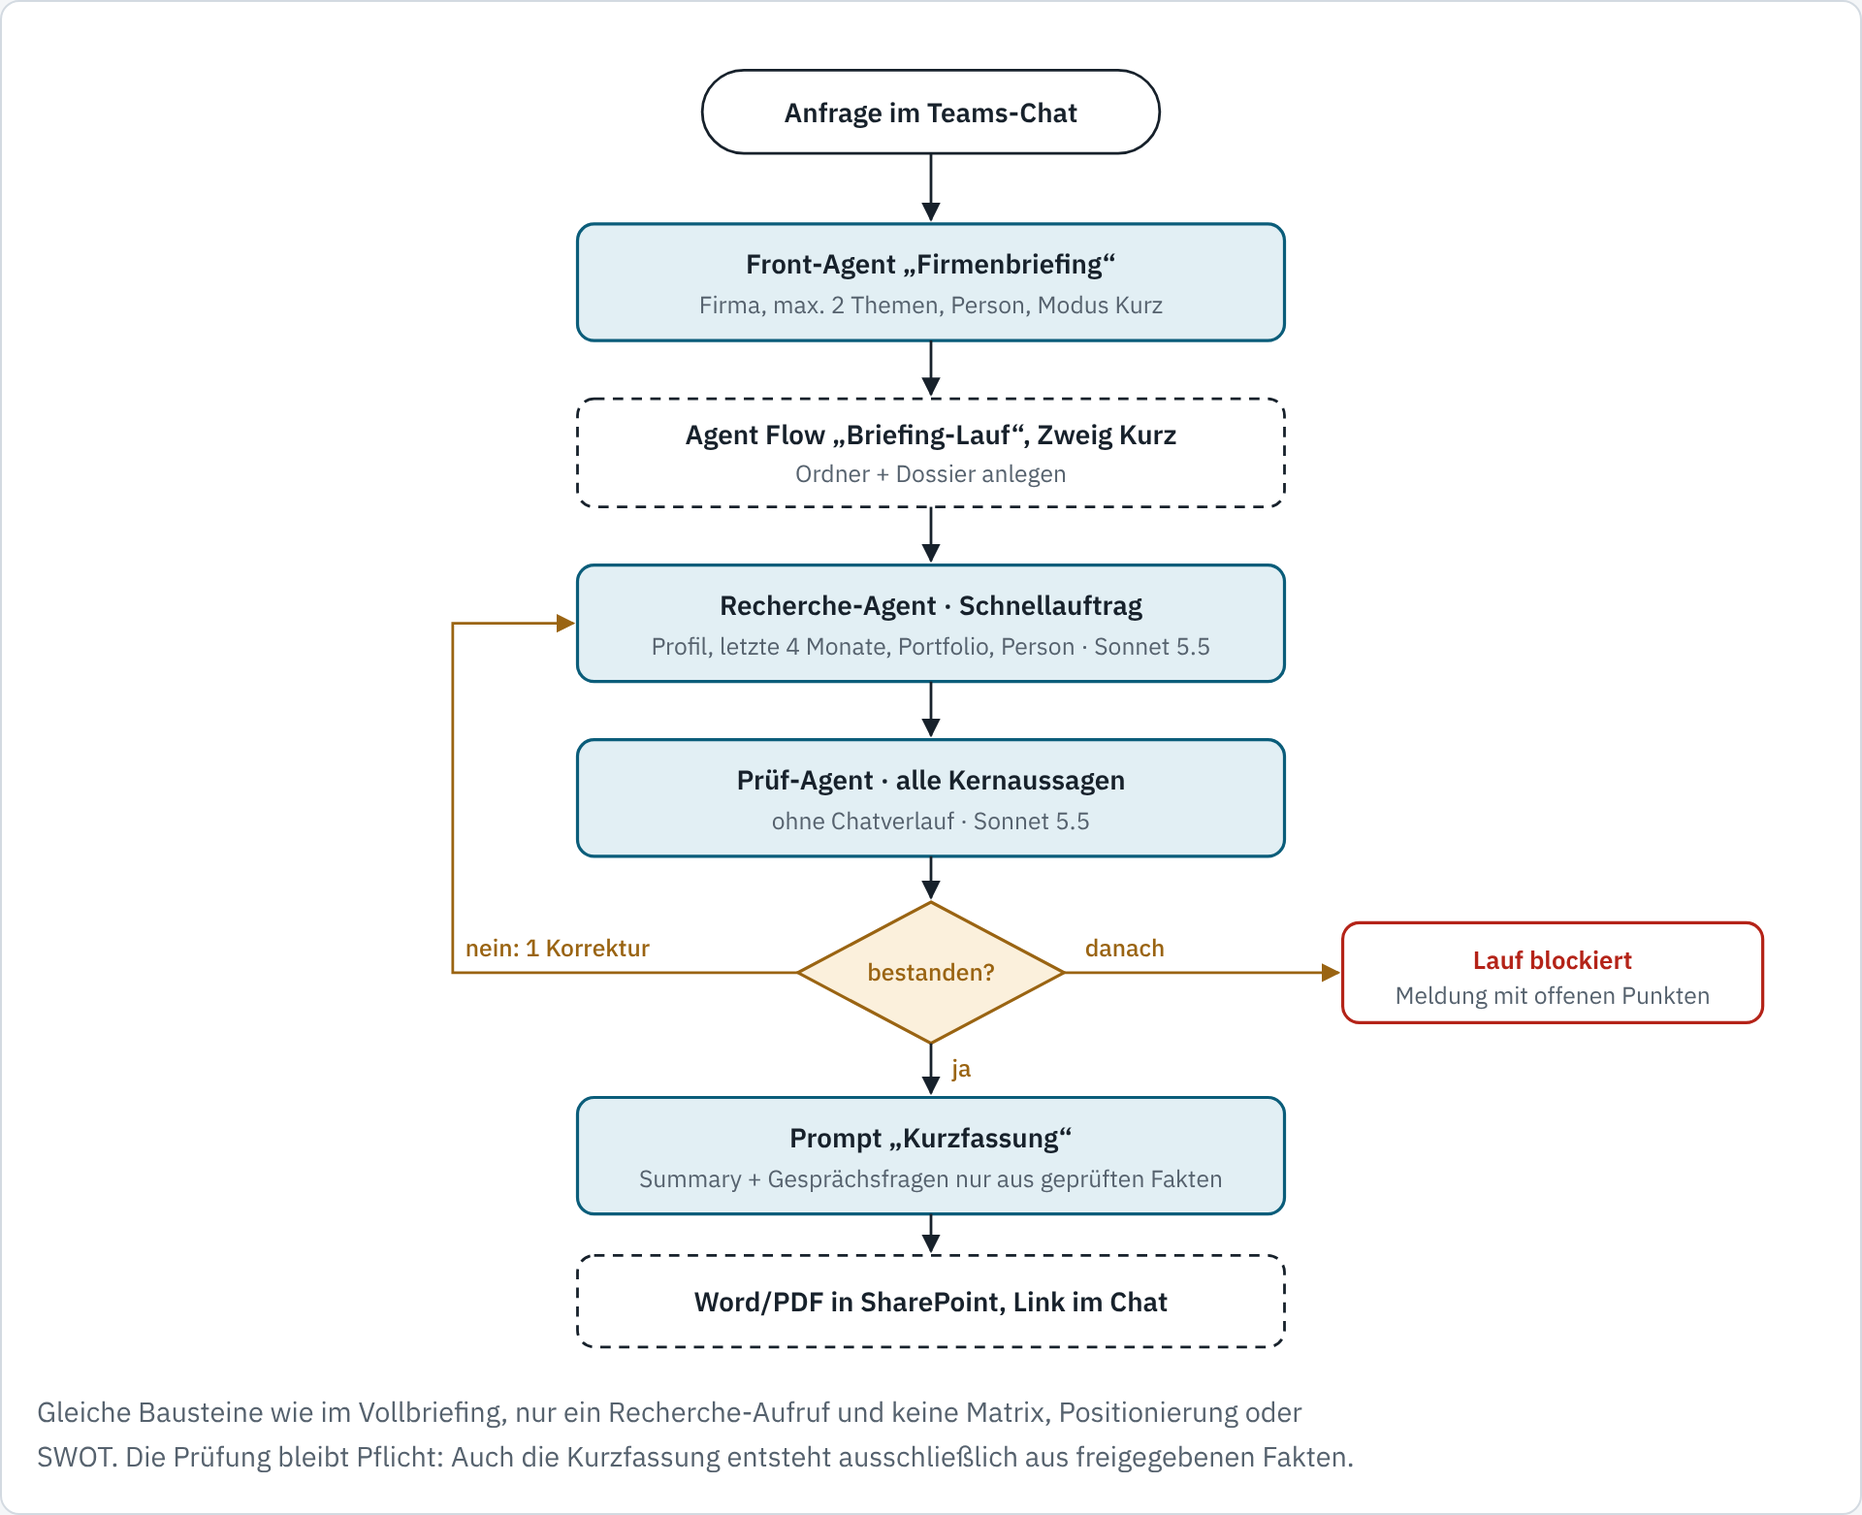
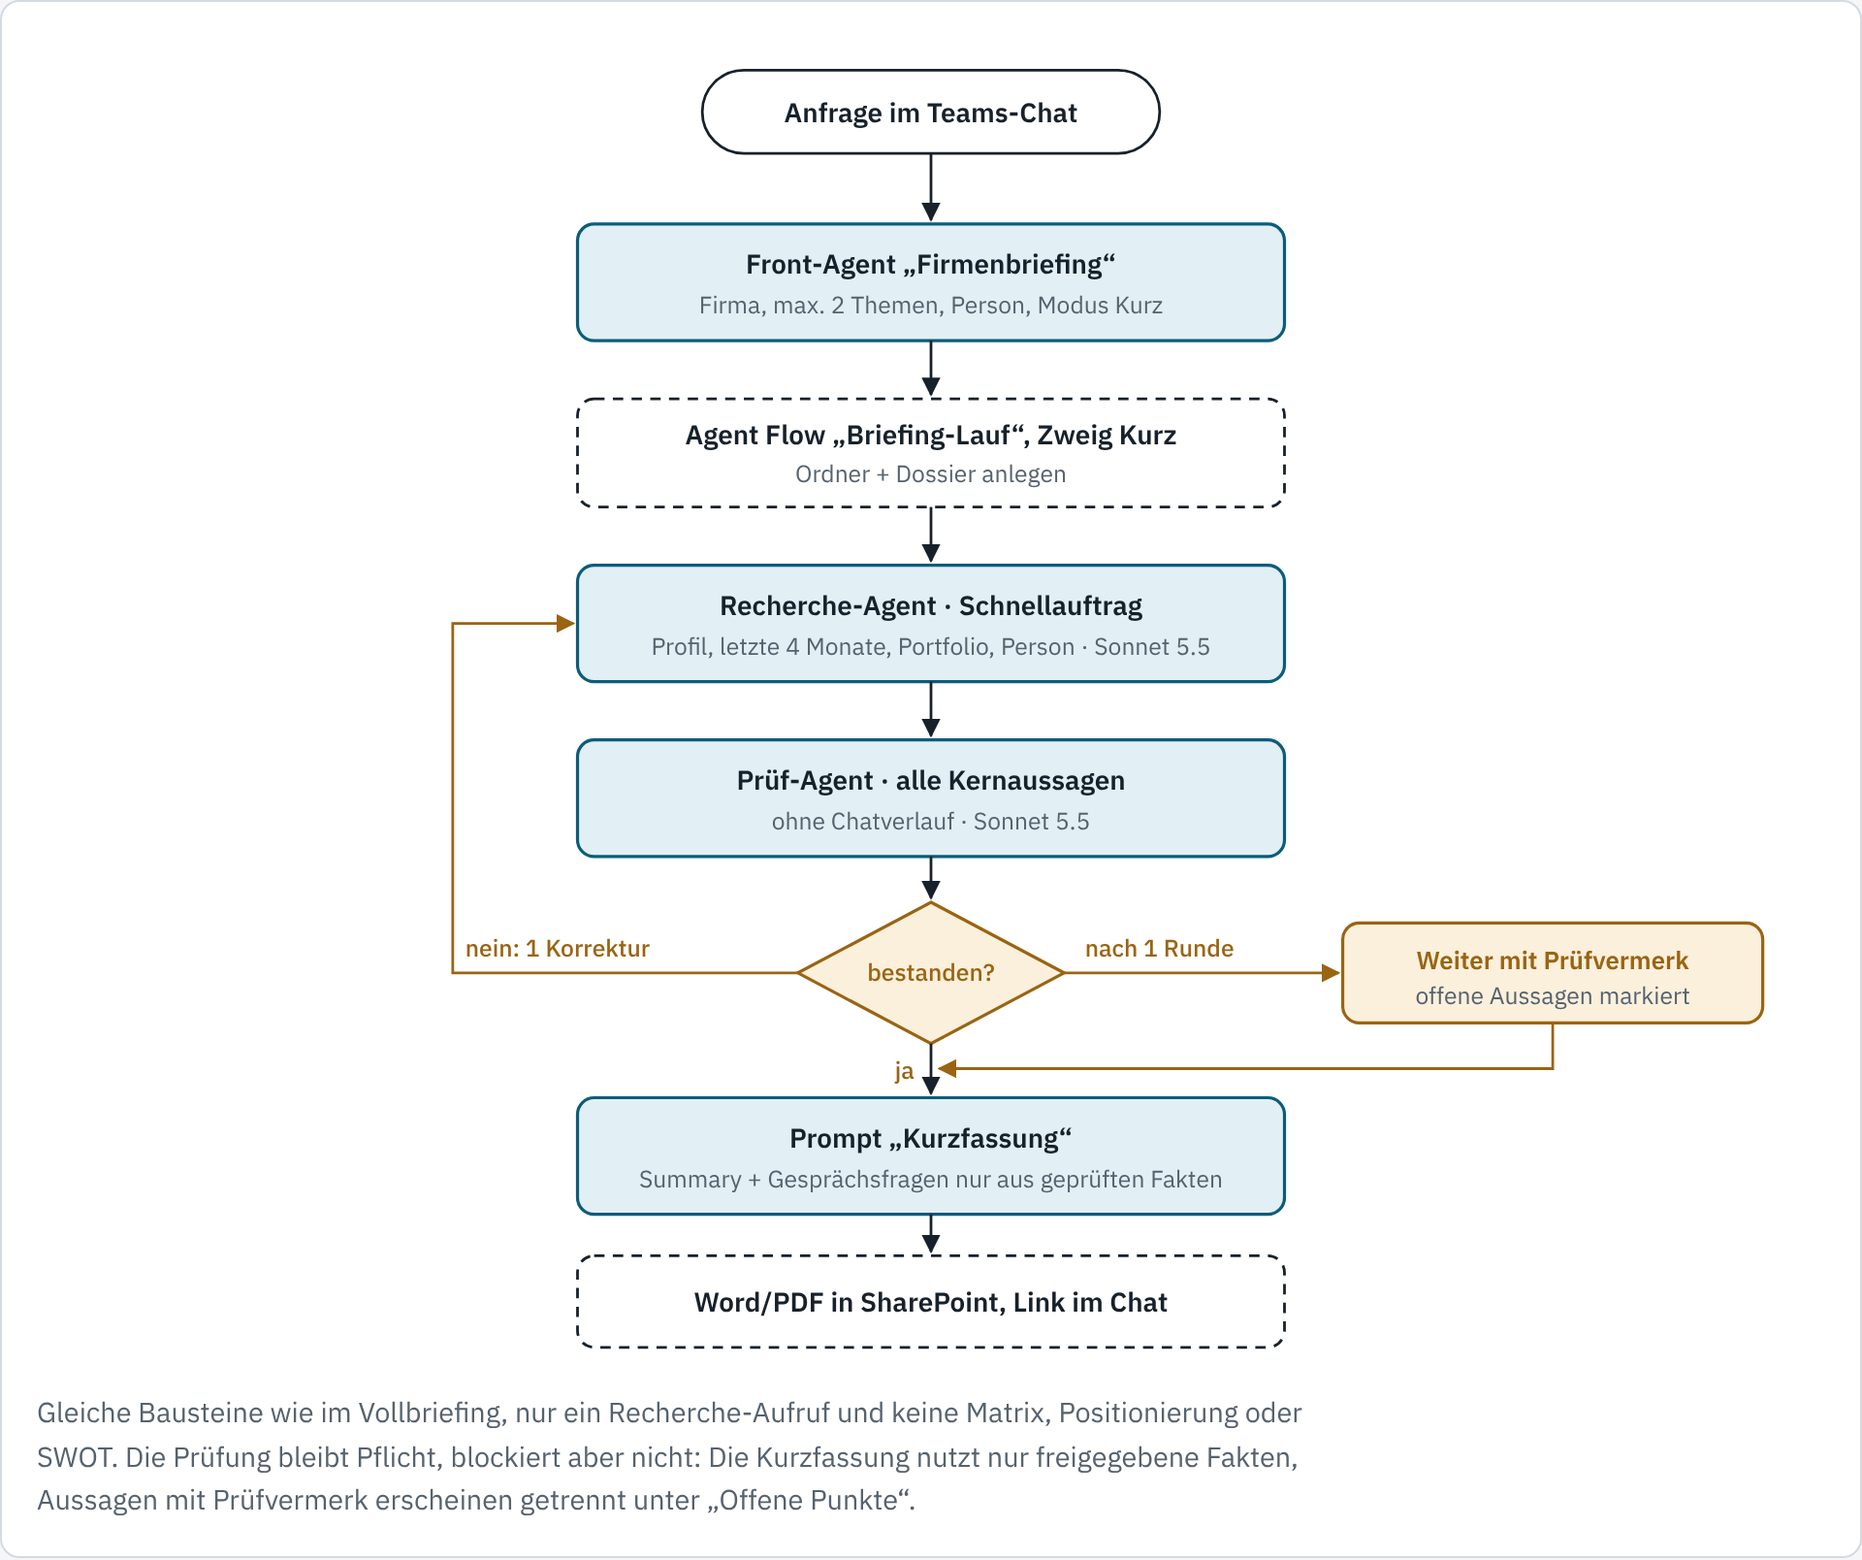
Make briefing runs non-blocking in the Copilot Studio target picture
After the correction rounds the flow always continues: unconfirmed
statements get a review note, are excluded from summary and assessment
and are listed under open points. A failed module shows as a data gap.

Claude-Session: https://claude.ai/code/session_013EJZuiswwf8FQgHL5qthTW

Changed region(s): [[0.0, 0.0307, 1.0, 1.0]]

diff --git a/docs/copilot-studio/zielbild.html b/docs/copilot-studio/zielbild.html
@@ -73,7 +73,7 @@ figcaption { font-size: .9rem; color: var(--muted); max-width: 80ch; }
 .sw-agent { background: var(--agent-fill); border: 1.5px solid var(--accent); }
 .sw-flow { border: 1.5px dashed var(--ink); }
 .sw-gate { background: var(--gate-fill); border: 1.5px solid var(--gate); transform: rotate(45deg) scale(.7); width: 16px; height: 16px; }
-.sw-stop { border: 1.5px solid var(--stop); }
+.sw-vm { background: var(--gate-fill); border: 1.5px solid var(--gate); }
 /* SVG-Klassen */
 .ag { fill: var(--agent-fill); stroke: var(--accent); stroke-width: 1.5; }
 .fl { fill: var(--surface); stroke: currentColor; stroke-width: 1.3; stroke-dasharray: 5 4; }
@@ -87,6 +87,8 @@ figcaption { font-size: .9rem; color: var(--muted); max-width: 80ch; }
 .tp { font: 600 12px var(--display); fill: var(--accent); letter-spacing: .05em; }
 .tg { font: 500 11.5px var(--body); fill: var(--gate); }
 .ts { font: 600 12px var(--body); fill: var(--stop); }
+.vm { fill: var(--gate-fill); stroke: var(--gate); stroke-width: 1.5; }
+.tv { font: 600 12px var(--body); fill: var(--gate); }
 .ah { fill: currentColor; }
 .ahg { fill: var(--gate); }
 .cols { display: grid; grid-template-columns: repeat(auto-fit, minmax(280px, 1fr)); gap: 14px; }
@@ -137,7 +139,8 @@ a { color: var(--accent); }
       <tr><td>Rollen</td><td>10 Rollen plus bis zu 3 Dokumentprüfer und Leitprüfer</td><td><b>5 Agenten</b>, die mit wechselndem Modulauftrag mehrfach aufgerufen werden</td></tr>
       <tr><td>Dateien je Lauf</td><td>rund 15 JSON-Dateien plus Prüfpläne und Checkpoints</td><td><b>1 Dossier</b> mit einem Abschnitt je Agent, dazu das fertige Briefing</td></tr>
       <tr><td>Wer schreibt</td><td>Jede Rolle schreibt ihre eigene Datei</td><td>Agenten liefern Ergebnisse zurück, <b>nur der Flow schreibt</b></td></tr>
-      <tr><td>Freigabe</td><td>Regeln im Prompt plus Python-Prüfskripte</td><td>Prüf-Agent urteilt, Flow-Bedingung setzt das Urteil hart durch</td></tr>
+      <tr><td>Freigabe</td><td>Regeln im Prompt plus Python-Prüfskripte</td><td>Prüf-Agent urteilt je Aussage, Flow-Bedingung setzt das Urteil durch</td></tr>
+      <tr><td>Nicht bestätigte Aussagen</td><td>Lauf wird nach 2 erfolglosen Korrekturrunden blockiert</td><td><b>Lauf läuft weiter</b>: Aussage bekommt einen Prüfvermerk, wird nicht für Summary und Bewertung genutzt und erscheint unter „Offene Punkte“</td></tr>
       <tr><td>Regelwerk</td><td>rund 315 KB in 36 Referenzdateien</td><td>je Modul eine kurze Auftragskarte, aus dem Repository erzeugt</td></tr>
       <tr><td>Ausgabe</td><td>HTML über lokale Renderer</td><td>Gleiche Renderer als Tool, dazu PDF, Ablage in SharePoint</td></tr>
     </tbody>
@@ -151,11 +154,11 @@ a { color: var(--accent); }
     <span><i class="sw sw-agent"></i>KI-Schritt (Agent oder Prompt)</span>
     <span><i class="sw sw-flow"></i>Flow- oder Code-Schritt</span>
     <span><i class="sw sw-gate"></i>Prüftor</span>
-    <span><i class="sw sw-stop"></i>Abbruch</span>
+    <span><i class="sw sw-vm"></i>Weiter mit Prüfvermerk</span>
   </div>
   <figure>
   <div class="scroll">
-  <svg viewBox="0 0 860 1060" role="img" aria-label="Vollbriefing: Front-Agent legt den Auftrag an, ein Agent Flow ruft vier Recherche-Module und je Fokusthema einen Aufruf auf, der Prüf-Agent gibt die Fakten frei, danach Positionierung, SWOT und Schlussprüfung, zuletzt rendert ein Tool HTML und PDF in SharePoint.">
+  <svg viewBox="0 0 860 1060" role="img" aria-label="Vollbriefing: Front-Agent legt den Auftrag an, ein Agent Flow ruft vier Recherche-Module und je Fokusthema einen Aufruf auf, der Prüf-Agent gibt die Fakten frei, nach höchstens zwei Korrekturrunden geht es mit Prüfvermerk weiter, danach Positionierung, SWOT und Schlussprüfung, zuletzt rendert ein Tool HTML und PDF in SharePoint. Der Lauf wird nie blockiert.">
     <defs>
       <marker id="a1" viewBox="0 0 10 10" refX="9" refY="5" markerWidth="7" markerHeight="7" orient="auto-start-reverse"><path d="M0,0 L10,5 L0,10 z" class="ah"/></marker>
       <marker id="g1" viewBox="0 0 10 10" refX="9" refY="5" markerWidth="7" markerHeight="7" orient="auto-start-reverse"><path d="M0,0 L10,5 L0,10 z" class="ahg"/></marker>
@@ -237,17 +240,18 @@ a { color: var(--accent); }
     <!-- Rücklauf Phase 1 -->
     <polyline points="366,604 18,604 18,321 34,321" class="lb" marker-end="url(#g1)"/>
     <text x="40" y="596" class="tg">nein: Korrektur an das betroffene Modul</text>
-    <!-- Abbruch -->
+    <!-- Weiter mit Prüfvermerk -->
     <line x1="494" y1="604" x2="626" y2="604" class="lb" marker-end="url(#g1)"/>
     <text x="504" y="596" class="tg">nach 2 Runden</text>
-    <rect x="628" y="580" width="202" height="48" rx="8" class="st"/>
-    <text x="729" y="602" text-anchor="middle" class="ts">Lauf blockiert</text>
-    <text x="729" y="619" text-anchor="middle" class="t2">Meldung mit offenen Punkten</text>
+    <rect x="628" y="580" width="202" height="48" rx="8" class="vm"/>
+    <text x="729" y="602" text-anchor="middle" class="tv">Weiter mit Prüfvermerk</text>
+    <text x="729" y="619" text-anchor="middle" class="t2">offene Aussagen markiert</text>
+    <polyline points="729,628 729,658 434,658" class="lb" marker-end="url(#g1)"/>
 
     <!-- Phase 2 -->
     <text x="36" y="676" class="tp">PHASE 2 · BEWERTUNG</text>
     <line x1="430" y1="640" x2="430" y2="658" class="ln"/>
-    <text x="440" y="654" class="tg">ja</text>
+    <text x="422" y="653" text-anchor="end" class="tg">ja</text>
     <polyline points="430,658 325,658 325,686" class="ln" marker-end="url(#a1)"/>
 
     <rect x="220" y="688" width="210" height="56" rx="8" class="ag"/>
@@ -272,13 +276,14 @@ a { color: var(--accent); }
     <text x="204" y="892" class="tg">nein: Korrektur</text>
     <line x1="494" y1="900" x2="626" y2="900" class="lb" marker-end="url(#g1)"/>
     <text x="504" y="892" class="tg">nach 2 Runden</text>
-    <rect x="628" y="876" width="202" height="48" rx="8" class="st"/>
-    <text x="729" y="898" text-anchor="middle" class="ts">Lauf blockiert</text>
-    <text x="729" y="915" text-anchor="middle" class="t2">Meldung mit offenen Punkten</text>
+    <rect x="628" y="876" width="202" height="48" rx="8" class="vm"/>
+    <text x="729" y="898" text-anchor="middle" class="tv">Weiter mit Prüfvermerk</text>
+    <text x="729" y="915" text-anchor="middle" class="t2">offene Ableitungen markiert</text>
+    <polyline points="729,924 729,950 434,950" class="lb" marker-end="url(#g1)"/>
 
     <!-- Ausgabe -->
     <line x1="430" y1="936" x2="430" y2="962" class="ln" marker-end="url(#a1)"/>
-    <text x="440" y="954" class="tg">ja</text>
+    <text x="422" y="955" text-anchor="end" class="tg">ja</text>
     <rect x="260" y="964" width="340" height="52" rx="8" class="fl"/>
     <text x="430" y="986" text-anchor="middle" class="t1">Tool „Briefing rendern“</text>
     <text x="430" y="1004" text-anchor="middle" class="t2">bestehende HTML-Vorlage + PDF → SharePoint</text>
@@ -287,7 +292,7 @@ a { color: var(--accent); }
     <text x="746" y="995" text-anchor="middle" class="t1">Link im Teams-Chat</text>
   </svg>
   </div>
-  <figcaption>Der Flow ruft dieselben Agenten mehrfach auf, jeweils mit einer anderen Auftragskarte. Alle Recherche-Aufrufe nutzen die Tools „Websuche“ und „Quelle abrufen“; Bewertung und SWOT arbeiten ohne Websuche. Jeder Rücklauf geht gezielt an das betroffene Modul, nicht an den ganzen Lauf.</figcaption>
+  <figcaption>Der Flow ruft dieselben Agenten mehrfach auf, jeweils mit einer anderen Auftragskarte. Alle Recherche-Aufrufe nutzen die Tools „Websuche“ und „Quelle abrufen“; Bewertung und SWOT arbeiten ohne Websuche. Jeder Rücklauf geht gezielt an das betroffene Modul, nicht an den ganzen Lauf. Der Lauf blockiert nie: Was nach den Korrekturrunden nicht bestätigt ist, bekommt einen Prüfvermerk, fließt nicht in Bewertung oder Summary ein und steht im Briefing unter „Offene Punkte“. Fällt ein Modul ganz aus, zeigt das Briefing dort eine Datenlücke.</figcaption>
   </figure>
 </section>
 
@@ -295,7 +300,7 @@ a { color: var(--accent); }
   <h2>Ablauf Kurzbriefing</h2>
   <figure>
   <div class="scroll">
-  <svg viewBox="0 0 860 640" role="img" aria-label="Kurzbriefing: Front-Agent legt den Auftrag an, der Flow ruft einen Schnellrecherche-Aufruf auf, der Prüf-Agent prüft alle Kernaussagen, ein Prompt schreibt Summary und Gesprächsfragen, das Ergebnis landet als Word oder PDF in SharePoint.">
+  <svg viewBox="0 0 860 640" role="img" aria-label="Kurzbriefing: Front-Agent legt den Auftrag an, der Flow ruft einen Schnellrecherche-Aufruf auf, der Prüf-Agent prüft alle Kernaussagen, nach einer Korrekturrunde geht es mit Prüfvermerk weiter, ein Prompt schreibt Summary und Gesprächsfragen, das Ergebnis landet als Word oder PDF in SharePoint.">
     <defs>
       <marker id="a2" viewBox="0 0 10 10" refX="9" refY="5" markerWidth="7" markerHeight="7" orient="auto-start-reverse"><path d="M0,0 L10,5 L0,10 z" class="ah"/></marker>
       <marker id="g2" viewBox="0 0 10 10" refX="9" refY="5" markerWidth="7" markerHeight="7" orient="auto-start-reverse"><path d="M0,0 L10,5 L0,10 z" class="ahg"/></marker>
@@ -329,13 +334,14 @@ a { color: var(--accent); }
     <polyline points="366,450 200,450 200,282 258,282" class="lb" marker-end="url(#g2)"/>
     <text x="206" y="442" class="tg">nein: 1 Korrektur</text>
     <line x1="494" y1="450" x2="626" y2="450" class="lb" marker-end="url(#g2)"/>
-    <text x="504" y="442" class="tg">danach</text>
-    <rect x="628" y="426" width="202" height="48" rx="8" class="st"/>
-    <text x="729" y="448" text-anchor="middle" class="ts">Lauf blockiert</text>
-    <text x="729" y="465" text-anchor="middle" class="t2">Meldung mit offenen Punkten</text>
+    <text x="504" y="442" class="tg">nach 1 Runde</text>
+    <rect x="628" y="426" width="202" height="48" rx="8" class="vm"/>
+    <text x="729" y="448" text-anchor="middle" class="tv">Weiter mit Prüfvermerk</text>
+    <text x="729" y="465" text-anchor="middle" class="t2">offene Aussagen markiert</text>
+    <polyline points="729,474 729,496 434,496" class="lb" marker-end="url(#g2)"/>
 
     <line x1="430" y1="484" x2="430" y2="508" class="ln" marker-end="url(#a2)"/>
-    <text x="440" y="500" class="tg">ja</text>
+    <text x="422" y="501" text-anchor="end" class="tg">ja</text>
     <rect x="260" y="510" width="340" height="56" rx="8" class="ag"/>
     <text x="430" y="534" text-anchor="middle" class="t1">Prompt „Kurzfassung“</text>
     <text x="430" y="553" text-anchor="middle" class="t2">Summary + Gesprächsfragen nur aus geprüften Fakten</text>
@@ -345,7 +351,7 @@ a { color: var(--accent); }
     <text x="430" y="613" text-anchor="middle" class="t1">Word/PDF in SharePoint, Link im Chat</text>
   </svg>
   </div>
-  <figcaption>Gleiche Bausteine wie im Vollbriefing, nur ein Recherche-Aufruf und keine Matrix, Positionierung oder SWOT. Die Prüfung bleibt Pflicht: Auch die Kurzfassung entsteht ausschließlich aus freigegebenen Fakten.</figcaption>
+  <figcaption>Gleiche Bausteine wie im Vollbriefing, nur ein Recherche-Aufruf und keine Matrix, Positionierung oder SWOT. Die Prüfung bleibt Pflicht, blockiert aber nicht: Die Kurzfassung nutzt nur freigegebene Fakten, Aussagen mit Prüfvermerk erscheinen getrennt unter „Offene Punkte“.</figcaption>
   </figure>
   <div class="scroll">
   <table>
@@ -354,6 +360,7 @@ a { color: var(--accent); }
       <tr><td>Zweck</td><td>Schnelle Gesprächsvorbereitung</td><td>Strategische Vorbereitung für das Top-Management</td></tr>
       <tr><td class="num">KI-Aufrufe</td><td class="num">3 (+1 bei Korrektur)</td><td class="num">8 + 1 je Fokusthema + Prüfaufrufe je Modul</td></tr>
       <tr><td>Inhalte</td><td>Profil, aktuelle Entwicklungen, Portfolio-Überblick, Person, Gesprächsfragen</td><td>dazu Struktur/Netzwerk, Markt und Wettbewerb, Capability-Matrix, Positionierung, SWOT, Fokusseiten</td></tr>
+      <tr><td>Ergebnis</td><td>immer, offene Punkte gekennzeichnet</td><td>immer, offene Punkte gekennzeichnet</td></tr>
       <tr><td>Ausgabe</td><td>Word oder PDF, 2–3 Seiten</td><td>interaktive HTML (bestehende Vorlage) und PDF</td></tr>
     </tbody>
   </table>
@@ -404,7 +411,7 @@ a { color: var(--accent); }
         <li class="pro">Einfacher Flow</li>
         <li class="con">Parallel schreibende Agenten überschreiben sich gegenseitig</li>
         <li class="con">Jeder Agent bekommt schnell das ganze Dossier, teurer und unschärfer</li>
-        <li class="con">Ein Formatfehler blockiert den ganzen Lauf</li>
+        <li class="con">Ein Formatfehler gefährdet den ganzen Lauf</li>
       </ul>
     </div>
     <div class="card rec">
@@ -443,9 +450,9 @@ a { color: var(--accent); }
   <h2>Umsetzung Stück für Stück</h2>
   <ol class="steps">
     <li><b>Stufe 0 · Voraussetzungen</b><span>Power-Platform-Umgebung, Copilot Credits mit Budgetgrenze, Anthropic-Modelle und Websuche durch die Administration freigeben, SharePoint-Site mit Auftragsliste und Bibliothek „Läufe“.</span><span class="ok">Fertig, wenn ein Test-Agent mit Claude-Modell im Teams-Chat antwortet.</span></li>
-    <li><b>Stufe 1 · Durchstich Kurzbriefing</b><span>Front-Agent, Auftragsliste, Agent Flow mit Zweig „Kurz“, Recherche-Agent, Prüf-Agent, Kurzfassung als Word-Datei.</span><span class="ok">Fertig, wenn ein echter Lauf durchläuft, jede Aussage eine URL trägt und ein absichtlich falscher Fakt am Prüftor hängen bleibt.</span></li>
+    <li><b>Stufe 1 · Durchstich Kurzbriefing</b><span>Front-Agent, Auftragsliste, Agent Flow mit Zweig „Kurz“, Recherche-Agent, Prüf-Agent, Kurzfassung als Word-Datei.</span><span class="ok">Fertig, wenn ein echter Lauf durchläuft, jede Aussage eine URL trägt und ein absichtlich falscher Fakt einen Prüfvermerk bekommt, ohne dass der Lauf stoppt.</span></li>
     <li><b>Stufe 2 · Quellen richtig lesen</b><span>Tool „Quelle abrufen“ als Custom Connector auf Basis des vorhandenen Quellen-Caches: HTML und PDF, Seitenangabe, Abrufdatum.</span><span class="ok">Fertig, wenn ein Geschäftsbericht mit Seitenangabe belegt wird.</span></li>
-    <li><b>Stufe 3 · Vollbriefing Fakten</b><span>Recherche-Tiefe-Agent, Zweig „Voll“ mit vier Modulen, Schleife je Fokusthema, Prüfung je Modul, Korrekturschleife mit höchstens 2 Runden.</span><span class="ok">Fertig, wenn zwei Fokusthemen getrennte Abschnitte liefern und eine Korrektur nur das betroffene Modul neu startet.</span></li>
+    <li><b>Stufe 3 · Vollbriefing Fakten</b><span>Recherche-Tiefe-Agent, Zweig „Voll“ mit vier Modulen, Schleife je Fokusthema, Prüfung je Modul, Korrekturschleife mit höchstens 2 Runden.</span><span class="ok">Fertig, wenn zwei Fokusthemen getrennte Abschnitte liefern, eine Korrektur nur das betroffene Modul neu startet und ein ausgefallenes Modul als Datenlücke erscheint.</span></li>
     <li><b>Stufe 4 · Bewertung</b><span>Bewertungs-Agent für Positionierung und SWOT, Schlussprüfung.</span><span class="ok">Fertig, wenn jede Bewertung auf geprüfte Fakten verweist.</span></li>
     <li><b>Stufe 5 · Ausgabe</b><span>Tool „Briefing rendern“ mit der bestehenden HTML-Vorlage, zusätzlich PDF, Ablage in SharePoint.</span><span class="ok">Fertig, wenn das Ergebnis der heutigen HTML entspricht und in SharePoint geöffnet werden kann.</span></li>
     <li><b>Stufe 6 · Freigabe für alle</b><span>Als Lösung von Test nach Produktion übertragen, Veröffentlichung in Teams, Verbrauch beobachten, Kurzanleitung.</span><span class="ok">Fertig nach einem Pilot mit drei Nutzern und drei Firmen.</span></li>
@@ -472,6 +479,7 @@ Ziel: Version B für Microsoft Copilot Studio, einfach und modular, Schritt für
 Rahmen:
 - 5 Connected Agents: Front-Agent, Recherche (Sonnet 5.5), Recherche Tiefe (Opus 5.5), Prüfung (Sonnet 5.5, ohne Chatverlauf), Bewertung (Opus 5.5).
 - Ein Agent Flow „Briefing-Lauf“ steuert Reihenfolge, Schleife je Fokusthema, Prüftore und höchstens 2 Korrekturrunden.
+- Der Lauf blockiert nie: Nicht bestätigte Aussagen bekommen einen Prüfvermerk, werden nicht für Summary/Bewertung genutzt und erscheinen unter „Offene Punkte“.
 - Ein Dossier je Lauf in SharePoint; Agenten liefern Abschnitte zurück, nur der Flow schreibt.
 - Tools per Custom Connector: „Quelle abrufen“ (source-cache.py) und „Briefing rendern“ (render-briefing.py).
 - Zwei Zweige: Kurzbriefing und Vollbriefing.
